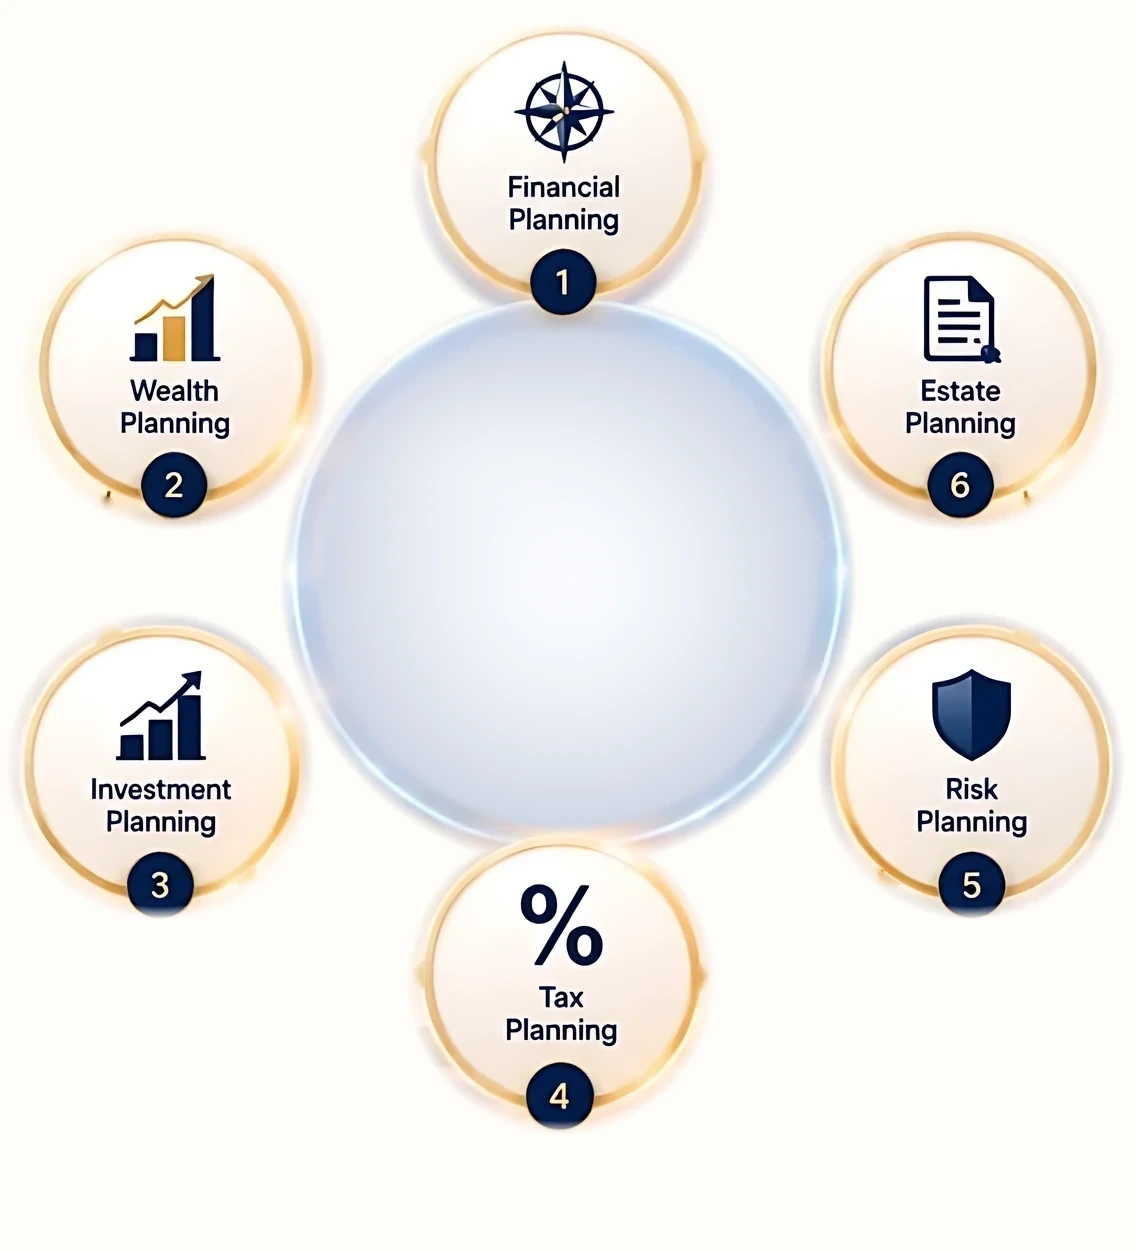
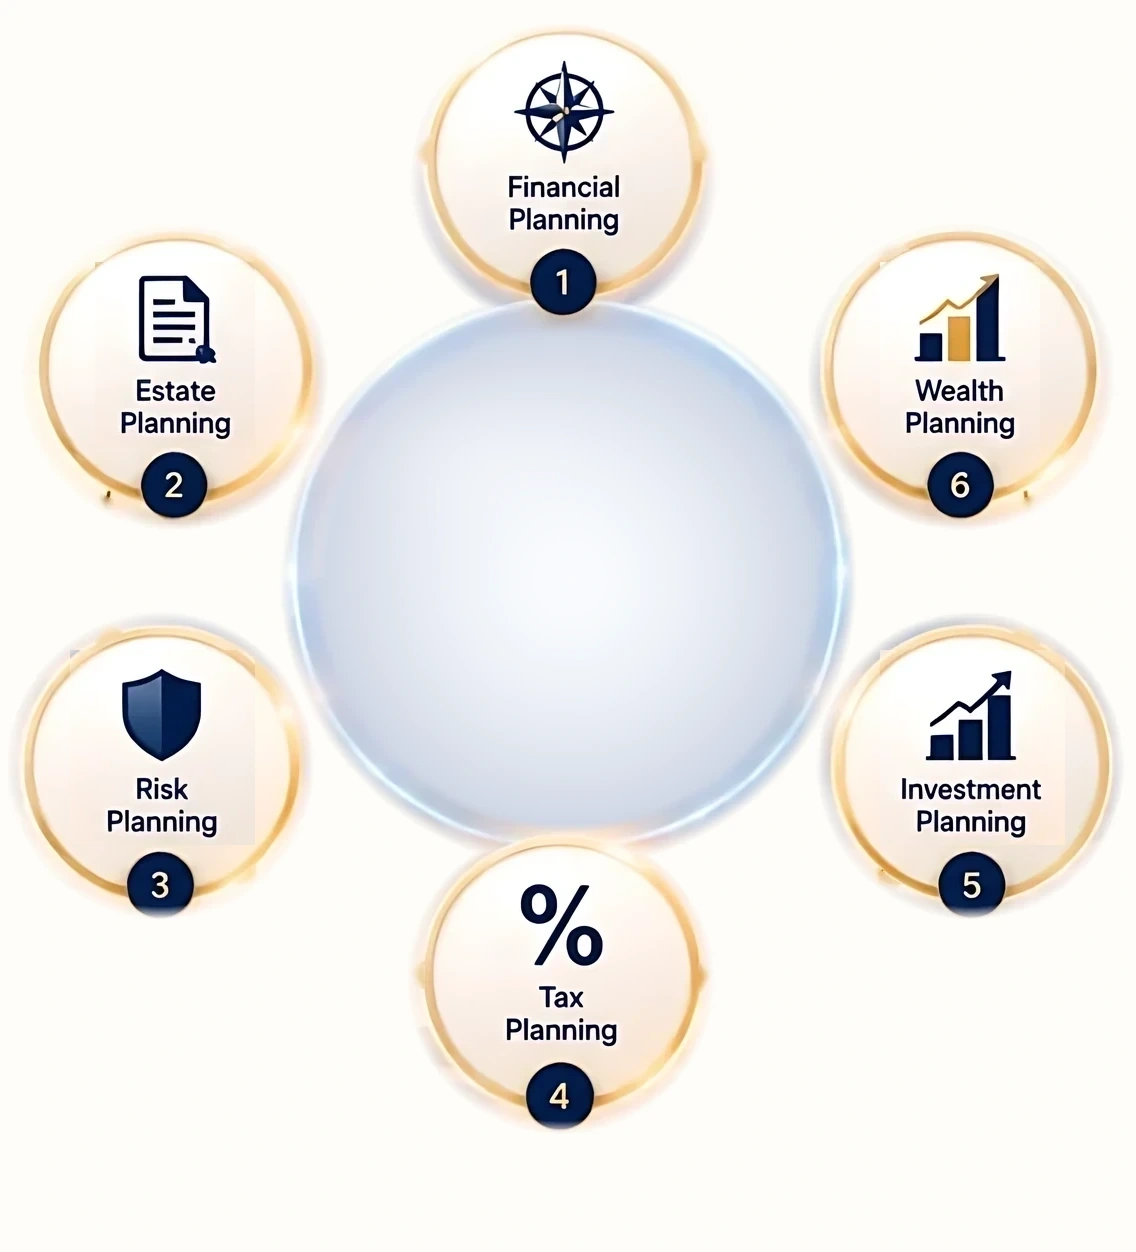
Home hero wheel: swap Wealth/Estate (2 and 6) and Investment/Risk (3 and 5), links follow

diff --git a/src/components/Hero.jsx b/src/components/Hero.jsx
@@ -23,11 +23,11 @@ const IMG_W = 710;
 const IMG_H = 782;
 const hotspots = [
   { label: 'Financial Planning', to: '/financial-planning', x: 352, y: 110 },
-  { label: 'Wealth Planning', to: '/goals', x: 109, y: 235 },
-  { label: 'Investment Planning', to: '/investments', x: 100, y: 478 },
+  { label: 'Estate Planning', to: '/estate-planning', x: 109, y: 235 },
+  { label: 'Risk Planning', to: '/risk-management', x: 100, y: 478 },
   { label: 'Tax Planning', to: '/tax-planning', x: 350, y: 612 },
-  { label: 'Risk Planning', to: '/risk-management', x: 606, y: 478 },
-  { label: 'Estate Planning', to: '/estate-planning', x: 600, y: 235 },
+  { label: 'Investment Planning', to: '/investments', x: 606, y: 478 },
+  { label: 'Wealth Planning', to: '/goals', x: 600, y: 235 },
 ];
 
 // The dashed connector from the artwork, redrawn as SVG in the image's pixel space so it can turn.
